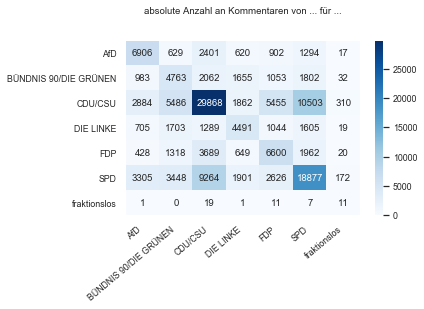
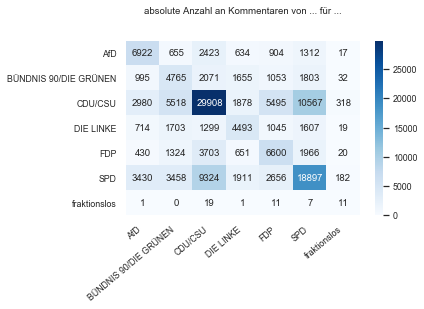
Minor correction in extract_commenting_party

diff --git a/data_preparation.py b/data_preparation.py
@@ -115,7 +115,6 @@ def extract_commenting_party(comment):
                         continue
                     else:
                         party_addressed = matching[0]
-                is_single_caller = True
             elif call_left.startswith("Gegenruf"):
                 if len(previous_callers) == 0:
                     # Gegenruf zum Redeinhalt, nicht zu vorherigem Kommentar
@@ -124,6 +123,8 @@ def extract_commenting_party(comment):
                 
             elif call_left.startswith("Weiterer Gegenruf"):
                 party_addressed = previous_callers[-2]
+            elif call_left.startswith("Zurufe"):
+                is_single_caller = False
             
             # case of single commenter without party or multiple commenters are not specified
             # examples for call_left: "Bettina Hagedorn, Parl. Staatssekretärin", "Zurufe von der SPD, der LINKEN und dem BÜNDNIS 90/DIE GRÜNEN"
@@ -194,7 +195,6 @@ def extract_commenting_party(comment):
         # check for "der LINKEN" and "des BÜNDNISSES...",
         if "der LINKEN" in sub_action:
             party_found = True
-            #print(comment['comment'])
             dict_all["DIE LINKE"][party_addressed] += get_factor_multiple("DIE LINKE", is_single_caller)
         if "des BÜNDNISSES 90/DIE GRÜNEN" in sub_action:
             party_found = True
